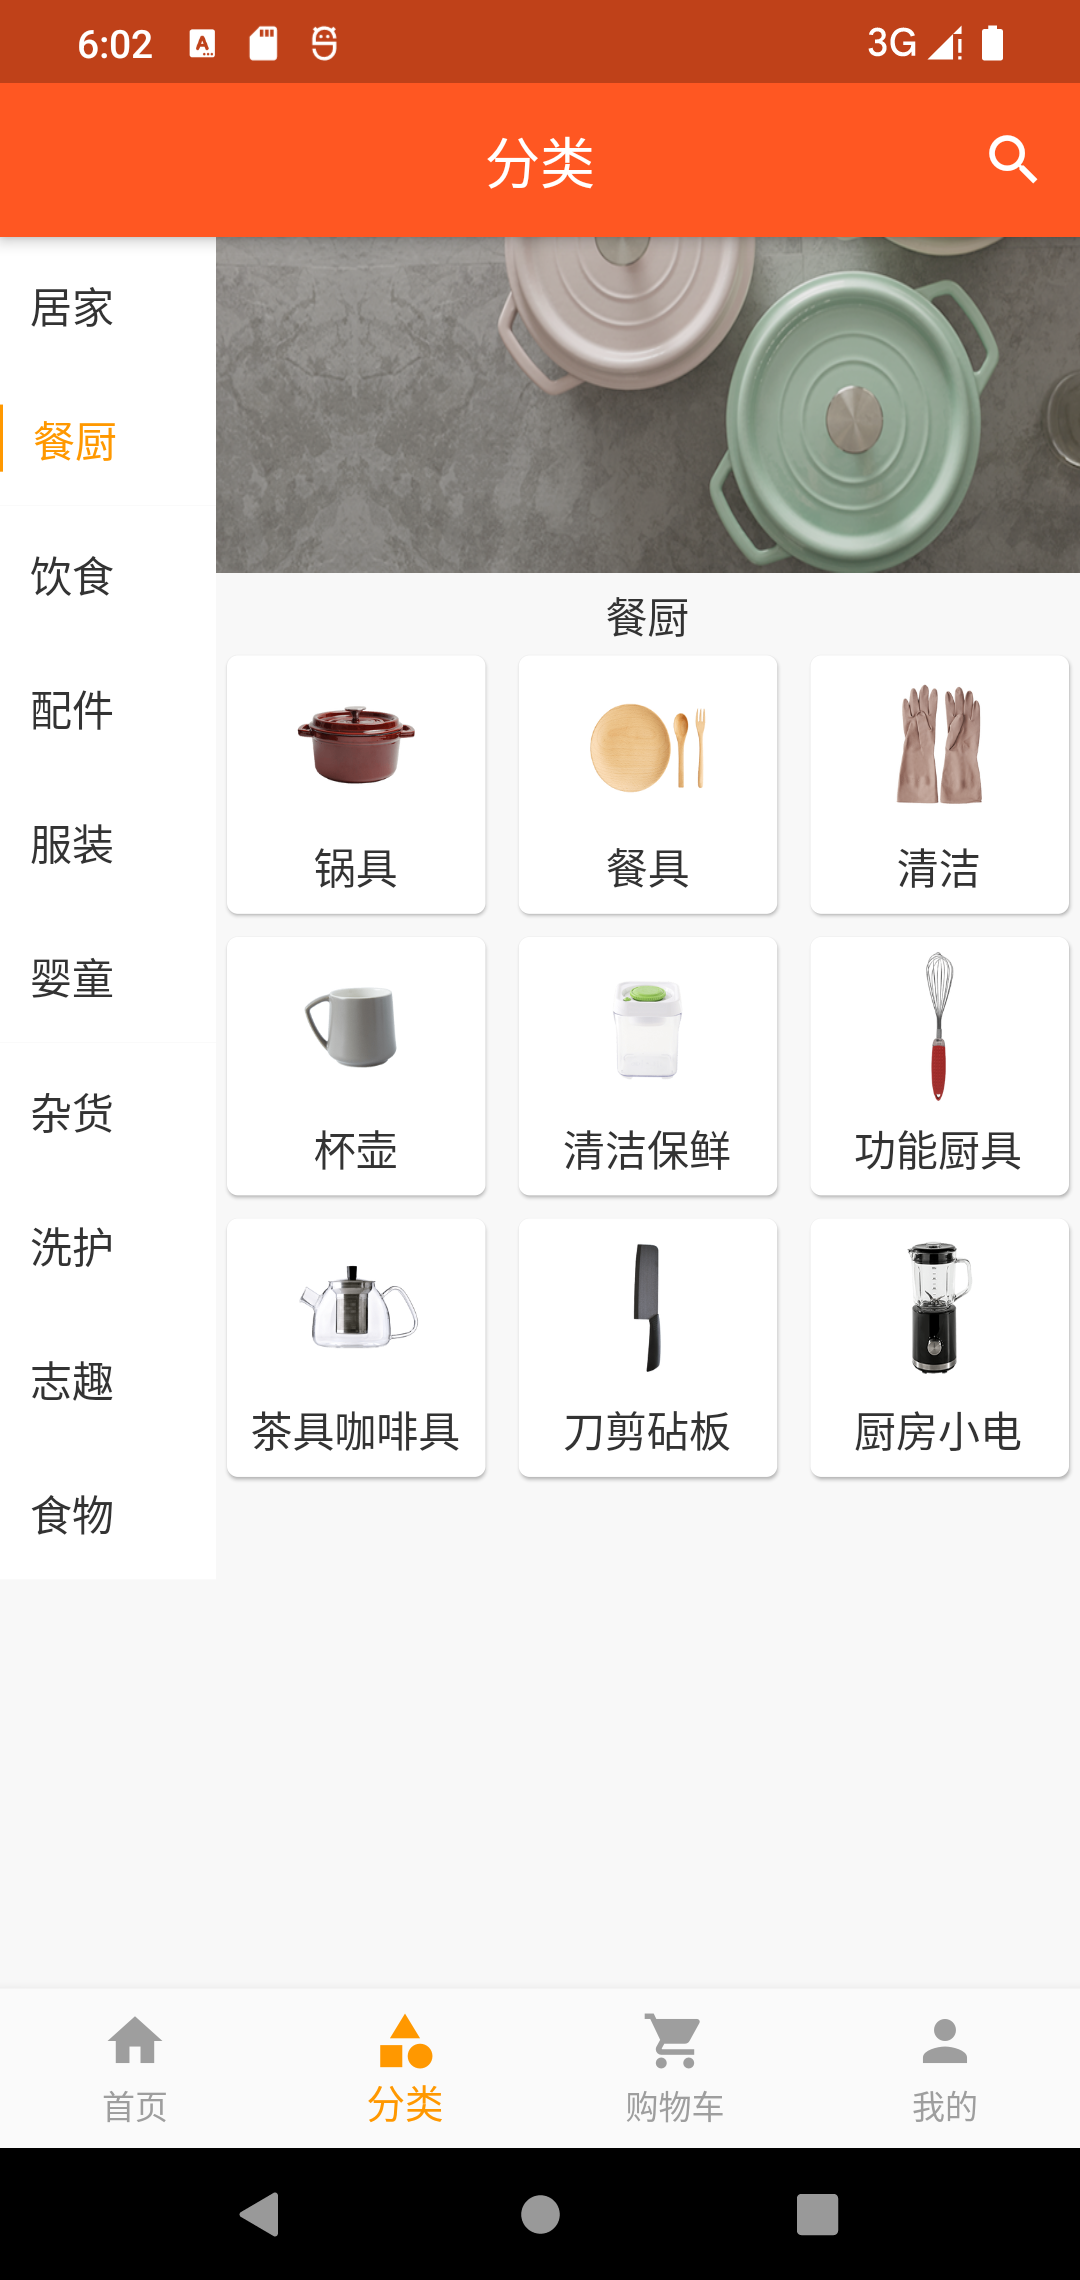
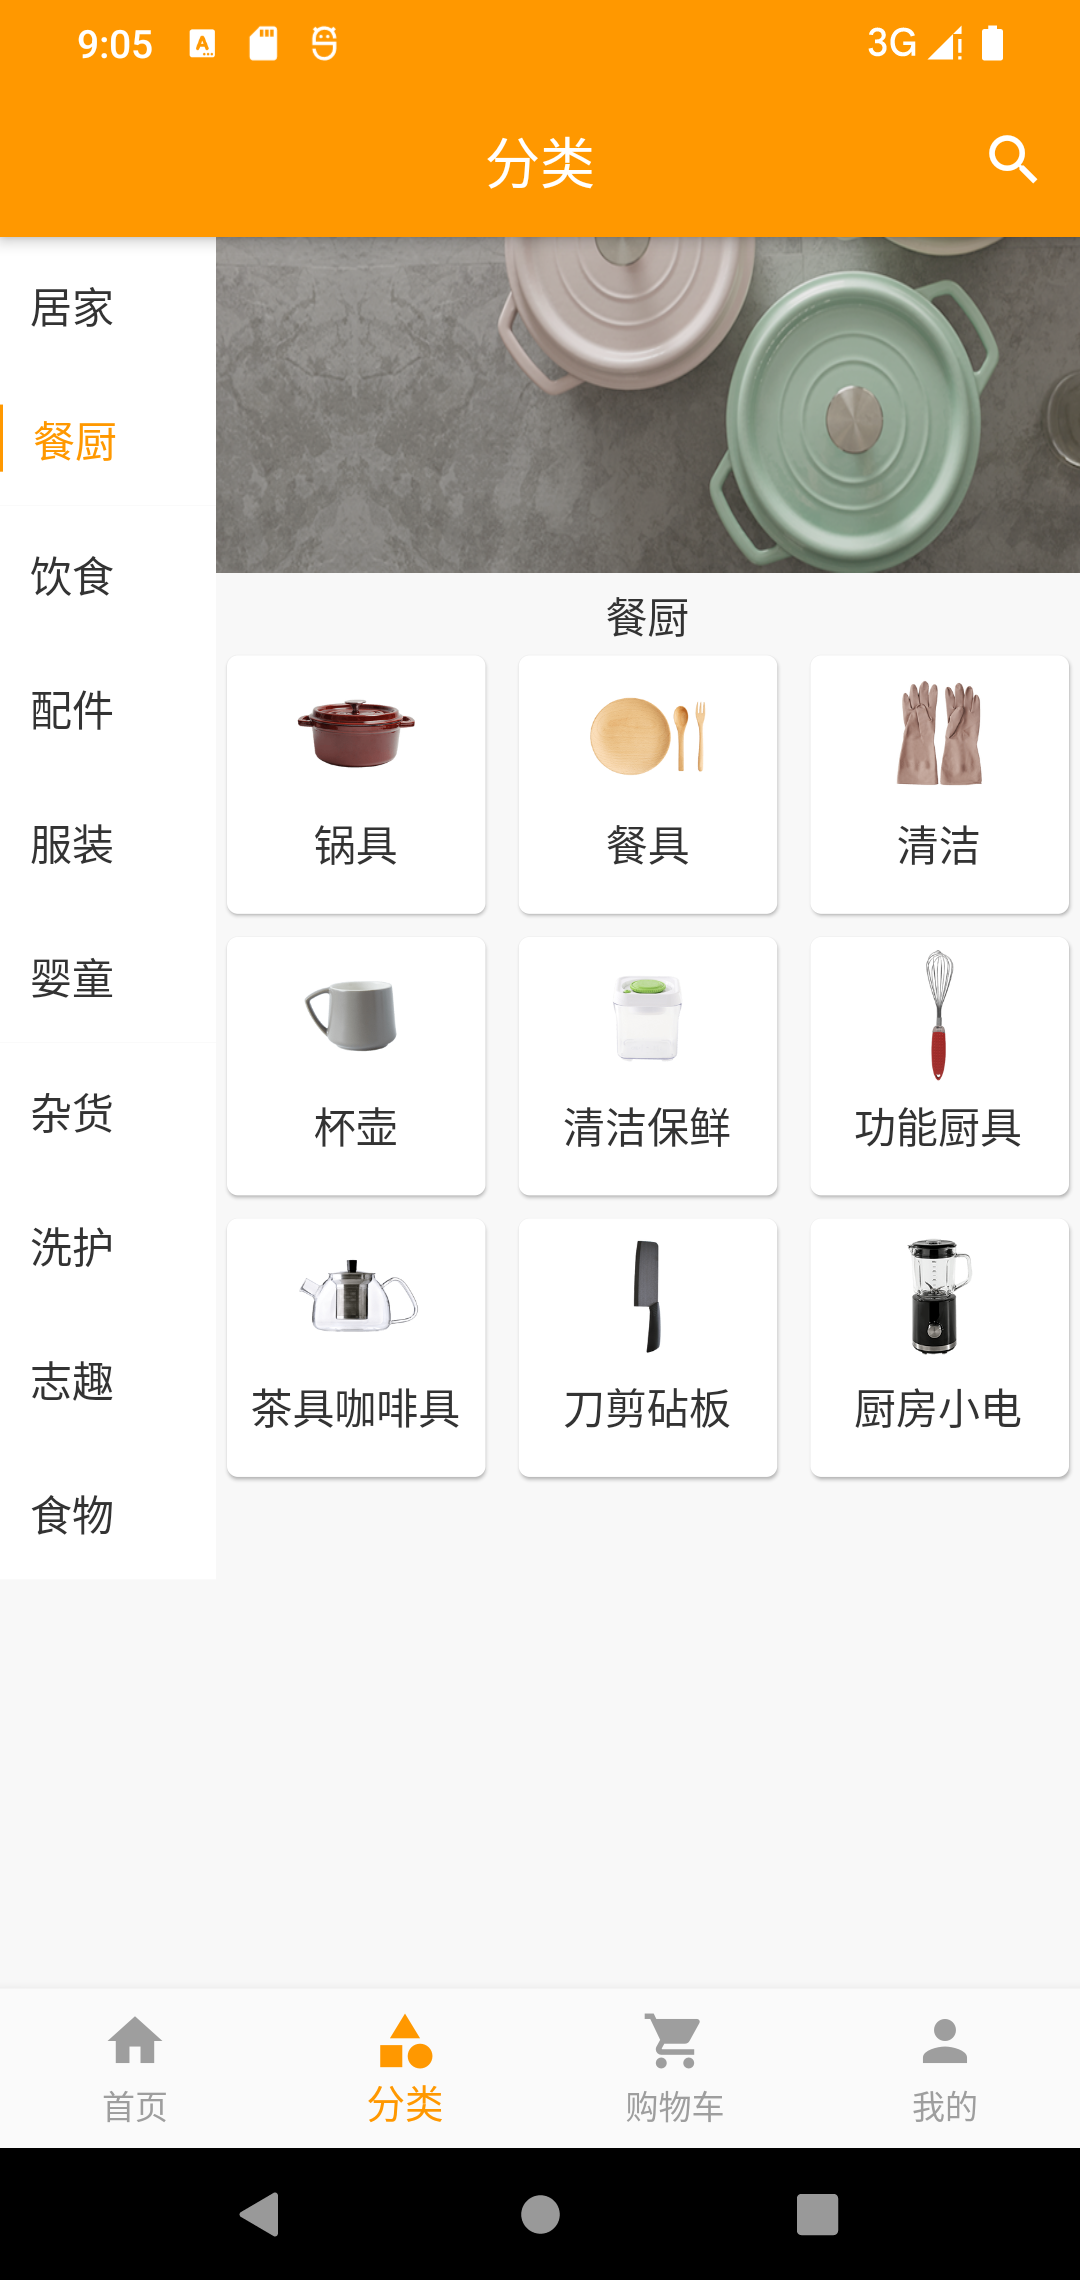
修改主题色更新README

diff --git a/lib/constant/app_strings.dart b/lib/constant/app_strings.dart
@@ -49,7 +49,7 @@ class AppStrings {
   static const String PASSWORD_HINT = "请输入密码";
   static const String ACCOUNT = "账号";
   static const String PASSWORD = "密码";
-  static const String LOGIN_WELCOME = "欢迎登录FM商城";
+  static const String LOGIN_WELCOME = "欢迎登录SuMall";
   static const String LOGIN_APP_INTRODUCE = "Flutter开发的在线商城系统";
   static const String LOGIN = "登录";
   static const String LOADING = "正在加载中...";
@@ -141,7 +141,7 @@ class AppStrings {
   static const String MINE_ABOUT_US_CONTENT =
       "SupperMall是一个企业级商城Flutter项目，整个项目采用MVVM架构设计";
   static const String MINE_ABOUT_AUTHOR_TITLE = "作者";
-  static const String MINE_ABOUT_AUTHOR = "路由新";
+  static const String MINE_ABOUT_AUTHOR = "JBK";
   static const String MINE_ABOUT_EMAIL_TITLE = "邮箱";
   static const String MINE_ABOUT_EMAIL = "jiabaokangsy@gmail.com";
   static const String MINE_ABOUT_QQ_TITLE = "QQ";

diff --git a/lib/ui/page/home/tab_mine_page.dart b/lib/ui/page/home/tab_mine_page.dart
@@ -27,14 +27,15 @@ class _TabMinePageState extends State<TabMinePage> {
   Widget _contentWidget() {
     return Consumer<UserViewModel>(
         builder: (BuildContext context, UserViewModel model, Widget child) {
-          print("");
+      print("");
       return Stack(children: [
         Container(
             height: ScreenUtil().setHeight(AppDimens.DIMENS_600) +
                 MediaQuery.of(context).padding.top,
             decoration: BoxDecoration(
                 gradient: LinearGradient(
-                    colors: [AppColors.COLOR_FFB24E, AppColors.COLOR_FF5722]),
+                    colors: [AppColors.COLOR_FFB24E, AppColors.COLOR_FF5722],
+                    begin: Alignment.topCenter),
                 color: AppColors.COLOR_FF5722,
                 borderRadius: BorderRadius.only(
                     bottomLeft: Radius.circular(
@@ -390,5 +391,4 @@ class _TabMinePageState extends State<TabMinePage> {
           );
         });
   }
-
 }

diff --git a/lib/main.dart b/lib/main.dart
@@ -1,6 +1,7 @@
 import 'package:device_preview/device_preview.dart';
 import 'package:fluro/fluro.dart';
 import 'package:flutter/material.dart';
+import 'package:flutter/services.dart';
 import 'package:mall/constant/app_colors.dart';
 import 'package:mall/constant/app_strings.dart';
 import 'package:mall/router/application.dart';
@@ -20,6 +21,11 @@ void main() async {
       _cartViewModel.queryCart();
     }
   });
+  /// Android状态栏透明 splash为白色,所以调整状态栏文字为黑色
+  SystemChrome.setSystemUIOverlayStyle(const SystemUiOverlayStyle(
+      statusBarColor: Colors.transparent,
+      statusBarBrightness: Brightness.dark));
+
   runApp(MultiProvider(
     providers: [
       ChangeNotifierProvider<UserViewModel>.value(value: _userViewModel),

diff --git a/lib/ui/page/home/tab_cart_page.dart b/lib/ui/page/home/tab_cart_page.dart
@@ -16,6 +16,8 @@ import 'package:flutter_slidable/flutter_slidable.dart';
 import 'package:pull_to_refresh/pull_to_refresh.dart';
 import 'package:provider/provider.dart';
 
+import '../../../constant/app_colors.dart';
+
 class TabCartPage extends StatefulWidget {
   @override
   _TabCartPageState createState() => _TabCartPageState();
@@ -36,6 +38,7 @@ class _TabCartPageState extends State<TabCartPage> {
     return Consumer<CartViewModel>(builder: (context, model, child) {
       return Scaffold(
         appBar: AppBar(
+          backgroundColor: AppColors.COLOR_APPBAR_BG,
           title: Text(AppStrings.SHOP_CAR),
           centerTitle: true,
         ),

diff --git a/lib/ui/page/home/brand_detail_page.dart b/lib/ui/page/home/brand_detail_page.dart
@@ -8,6 +8,8 @@ import 'package:mall/view_model/page_state.dart';
 import 'package:flutter_screenutil/flutter_screenutil.dart';
 import 'package:provider/provider.dart';
 
+import '../../../constant/app_colors.dart';
+
 class BrandDetailPage extends StatefulWidget {
   final titleName;
   final id;
@@ -31,6 +33,7 @@ class _BrandDetailPageState extends State<BrandDetailPage> {
   Widget build(BuildContext context) {
     return Scaffold(
         appBar: AppBar(
+          backgroundColor: AppColors.COLOR_APPBAR_BG,
           title: Text(widget.titleName),
           centerTitle: true,
         ),

diff --git a/lib/ui/widgets/webview_widget.dart b/lib/ui/widgets/webview_widget.dart
@@ -1,6 +1,7 @@
 import 'package:flutter/material.dart';
 import 'package:mall/constant/app_strings.dart';
 import 'package:flutter_webview_plugin/flutter_webview_plugin.dart';
+import 'package:mall/constant/app_colors.dart';
 
 class WebViewPage extends StatelessWidget {
   String bannerDetailUrl;
@@ -12,6 +13,7 @@ class WebViewPage extends StatelessWidget {
   Widget build(BuildContext context) {
     return Scaffold(
       appBar: AppBar(
+        backgroundColor: AppColors.COLOR_APPBAR_BG,
         title: Text(bannerName),
         centerTitle: true,
       ),

diff --git a/lib/ui/page/goods/category_goods_page.dart b/lib/ui/page/goods/category_goods_page.dart
@@ -1,6 +1,8 @@
 import 'package:flutter/material.dart';
 import 'package:mall/ui/page/goods/category_goods_widget.dart';
 
+import '../../../constant/app_colors.dart';
+
 
 class CategoryGoodsPage extends StatefulWidget {
  final String _categoryName;
@@ -27,6 +29,7 @@ class _CategoryGoodsPageState extends State<CategoryGoodsPage> {
   Widget build(BuildContext context) {
     return Scaffold(
         appBar: AppBar(
+          backgroundColor: AppColors.COLOR_APPBAR_BG,
           centerTitle: true,
           title: Text(_categoryName),
         ),

diff --git a/lib/ui/page/mine/about_us_page.dart b/lib/ui/page/mine/about_us_page.dart
@@ -5,12 +5,14 @@ import 'package:mall/constant/text_style.dart';
 import 'package:mall/ui/widgets/divider_line.dart';
 import 'package:mall/ui/widgets/item_text.dart';
 import 'package:flutter_screenutil/flutter_screenutil.dart';
+import 'package:mall/constant/app_colors.dart';
 
 class AboutUsPage extends StatelessWidget {
   @override
   Widget build(BuildContext context) {
     return Scaffold(
       appBar: AppBar(
+        backgroundColor: AppColors.COLOR_APPBAR_BG,
         title: Text(AppStrings.ABOUT_US),
         centerTitle: true,
       ),

diff --git a/lib/ui/page/404/not_find_page.dart b/lib/ui/page/404/not_find_page.dart
@@ -3,12 +3,15 @@ import 'package:mall/constant/app_colors.dart';
 import 'package:mall/constant/app_images.dart';
 import 'package:mall/constant/app_strings.dart';
 
+import '../../../constant/app_colors.dart';
+
 
 class NotFindPage extends StatelessWidget {
   @override
   Widget build(BuildContext context) {
     return Scaffold(
         appBar: AppBar(
+          backgroundColor: AppColors.COLOR_APPBAR_BG,
           centerTitle: true,
           title: Text(AppStrings.APP_NAME),
         ),

diff --git a/lib/constant/app_colors.dart b/lib/constant/app_colors.dart
@@ -16,6 +16,10 @@ class AppColors {
   static const Color COLOR_DCDCDC = Color(0xFFDCDCDC);
   static const Color COLOR_FFB24E=Color(0xFFFFB24E);
   static const Color COLOR_EAEAEA=Color(0xFFEAEAEA);
+
+  static const Color COLOR_APPBAR_BG=Colors.orange;
+
+
   static const Color COLOR_TRANSPARENT = Colors.transparent;
   static const MaterialColor themeColor = const MaterialColor(
     0xffff5722,

diff --git a/lib/view_model/order_view_model.dart b/lib/view_model/order_view_model.dart
@@ -5,12 +5,7 @@ import 'package:mall/utils/toast_util.dart';
 import 'package:mall/view_model/base_view_model.dart';
 import 'package:mall/view_model/page_state.dart';
 
-/**
- * Create by luyouxin
- * description
-    Created by $USER_NAME on 2020/10/30.
- */
-
+///订单ViewModel
 class OrderViewModel extends BaseViewModel {
   bool _canLoadMore = false;
   List<OrderEntity> _data = List();

diff --git a/lib/ui/page/mine/foot_print_page.dart b/lib/ui/page/mine/foot_print_page.dart
@@ -39,6 +39,7 @@ class _FootPrintPageState extends State<FootPrintPage> {
       child: Consumer<FootPrintViewModel>(builder: (context, model, child) {
         return Scaffold(
             appBar: AppBar(
+                backgroundColor: AppColors.COLOR_APPBAR_BG,
                 title: Text(AppStrings.MINE_FOOTPRINT),
                 centerTitle: true,
                 actions: [
